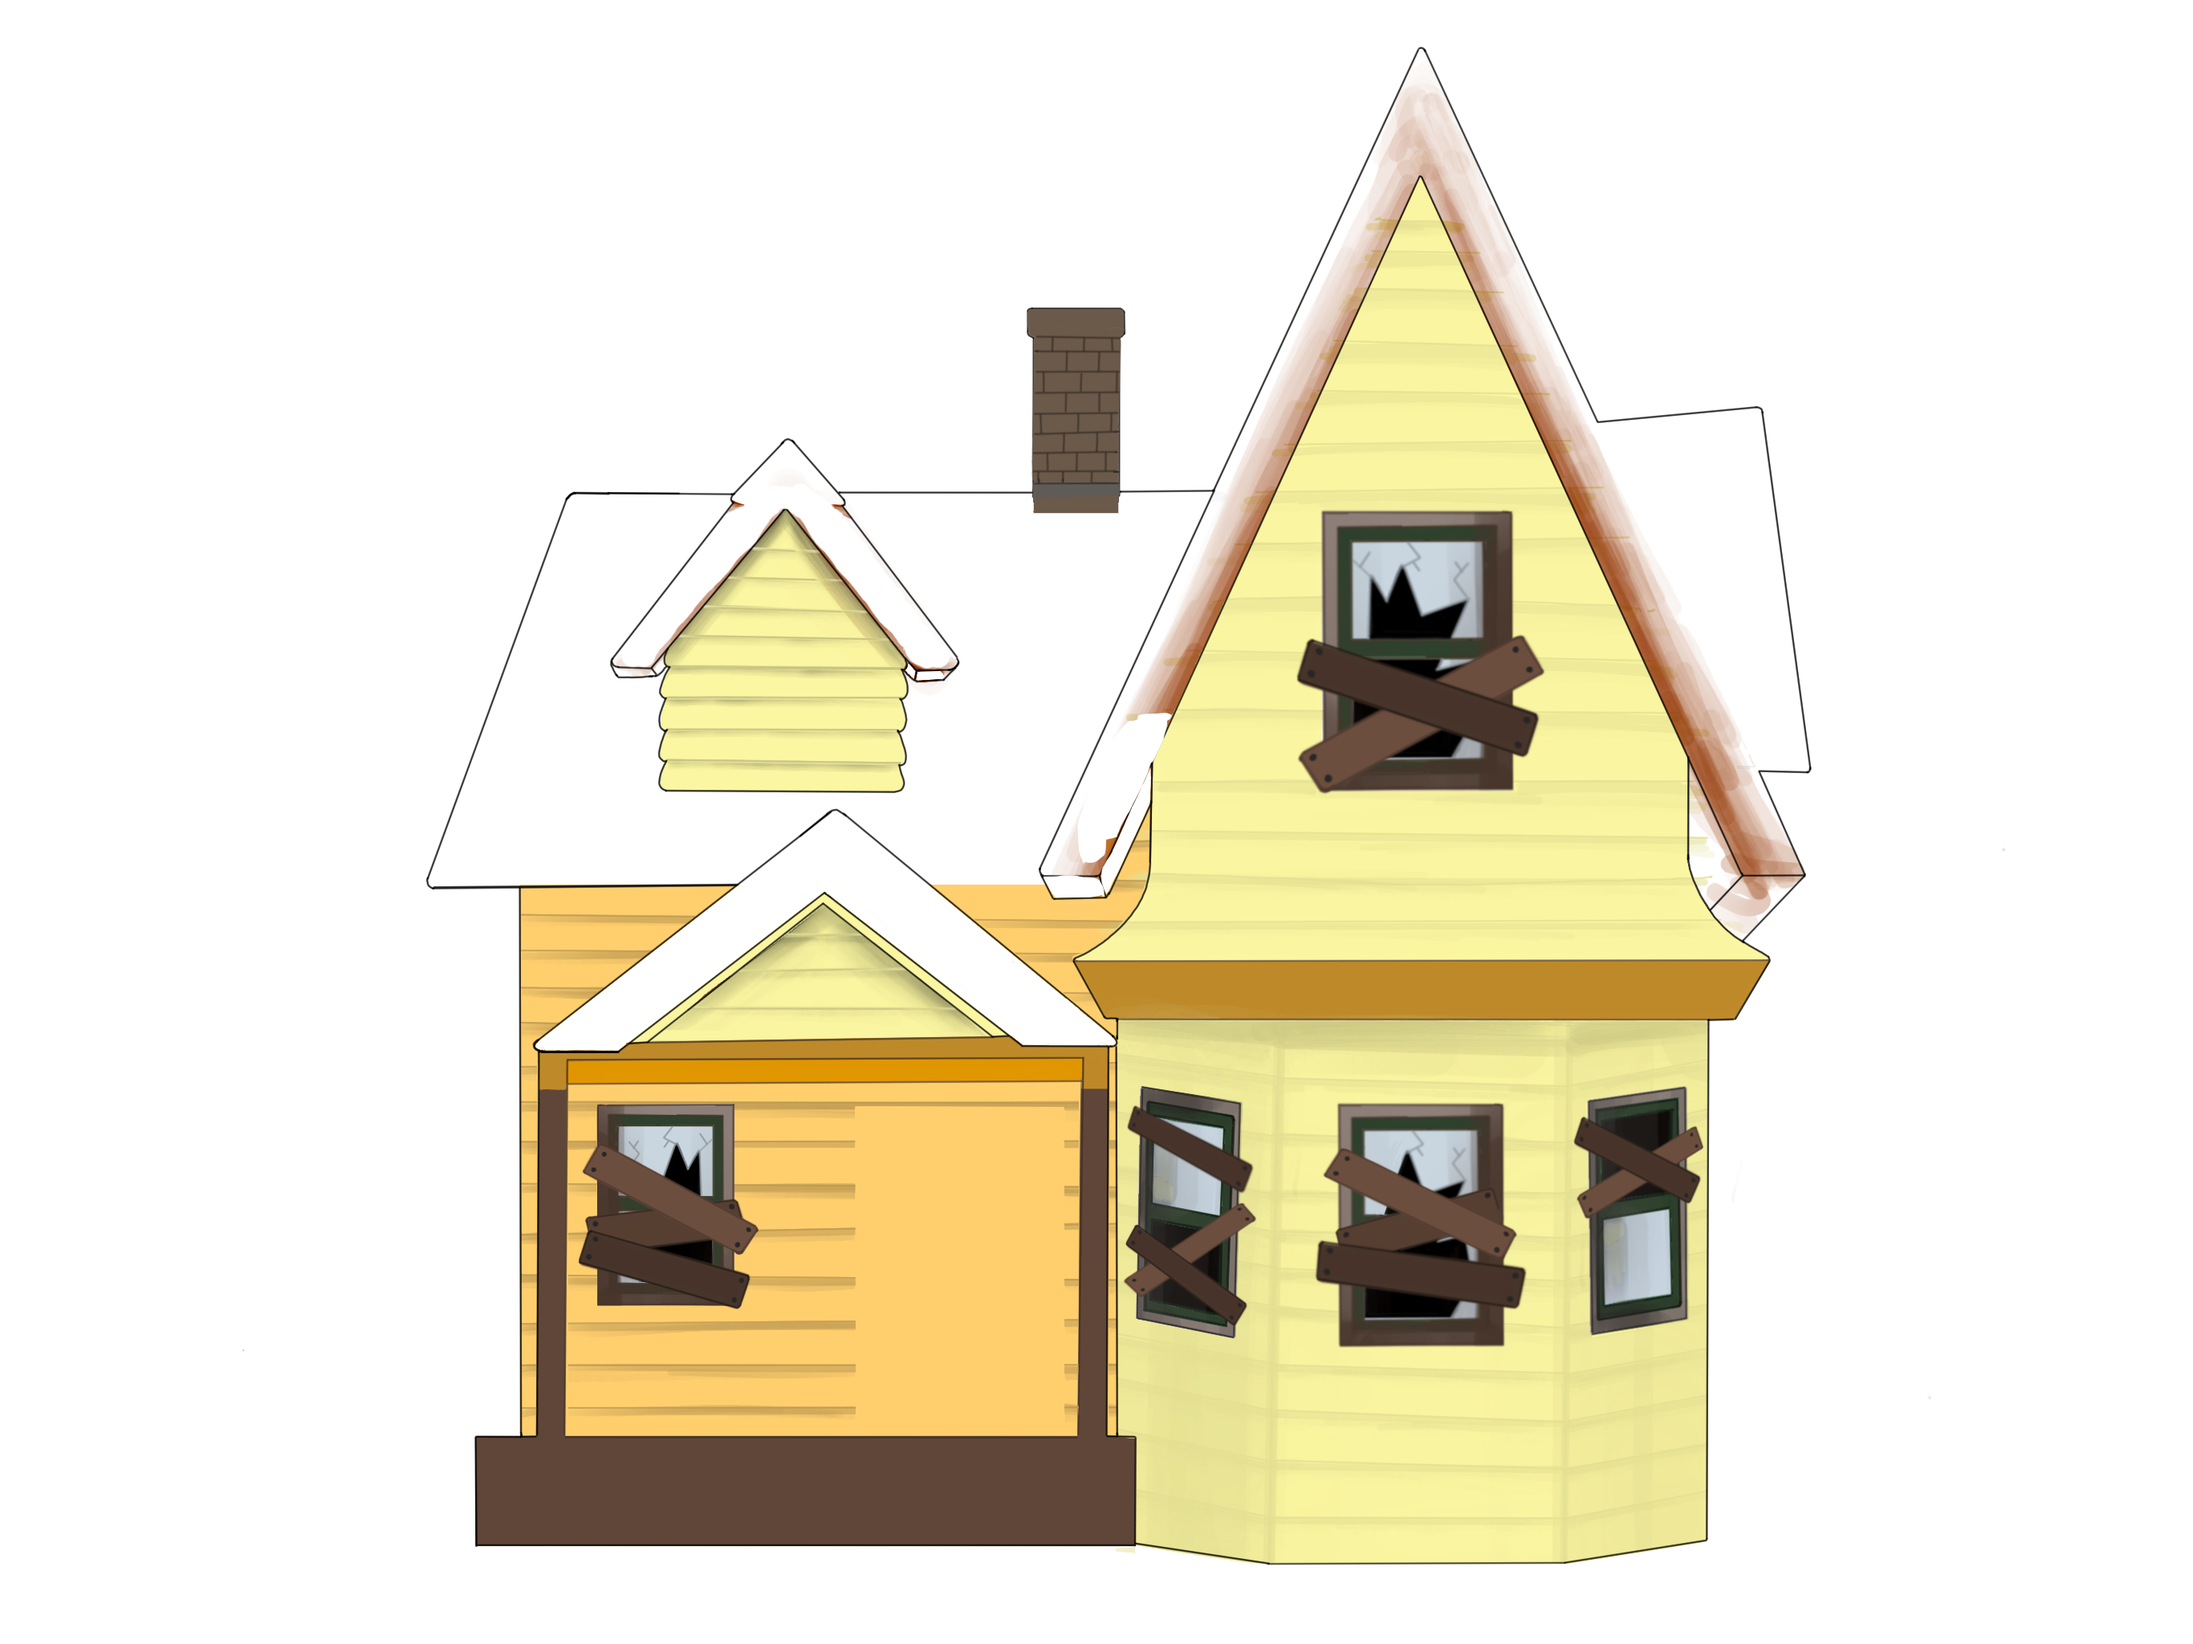
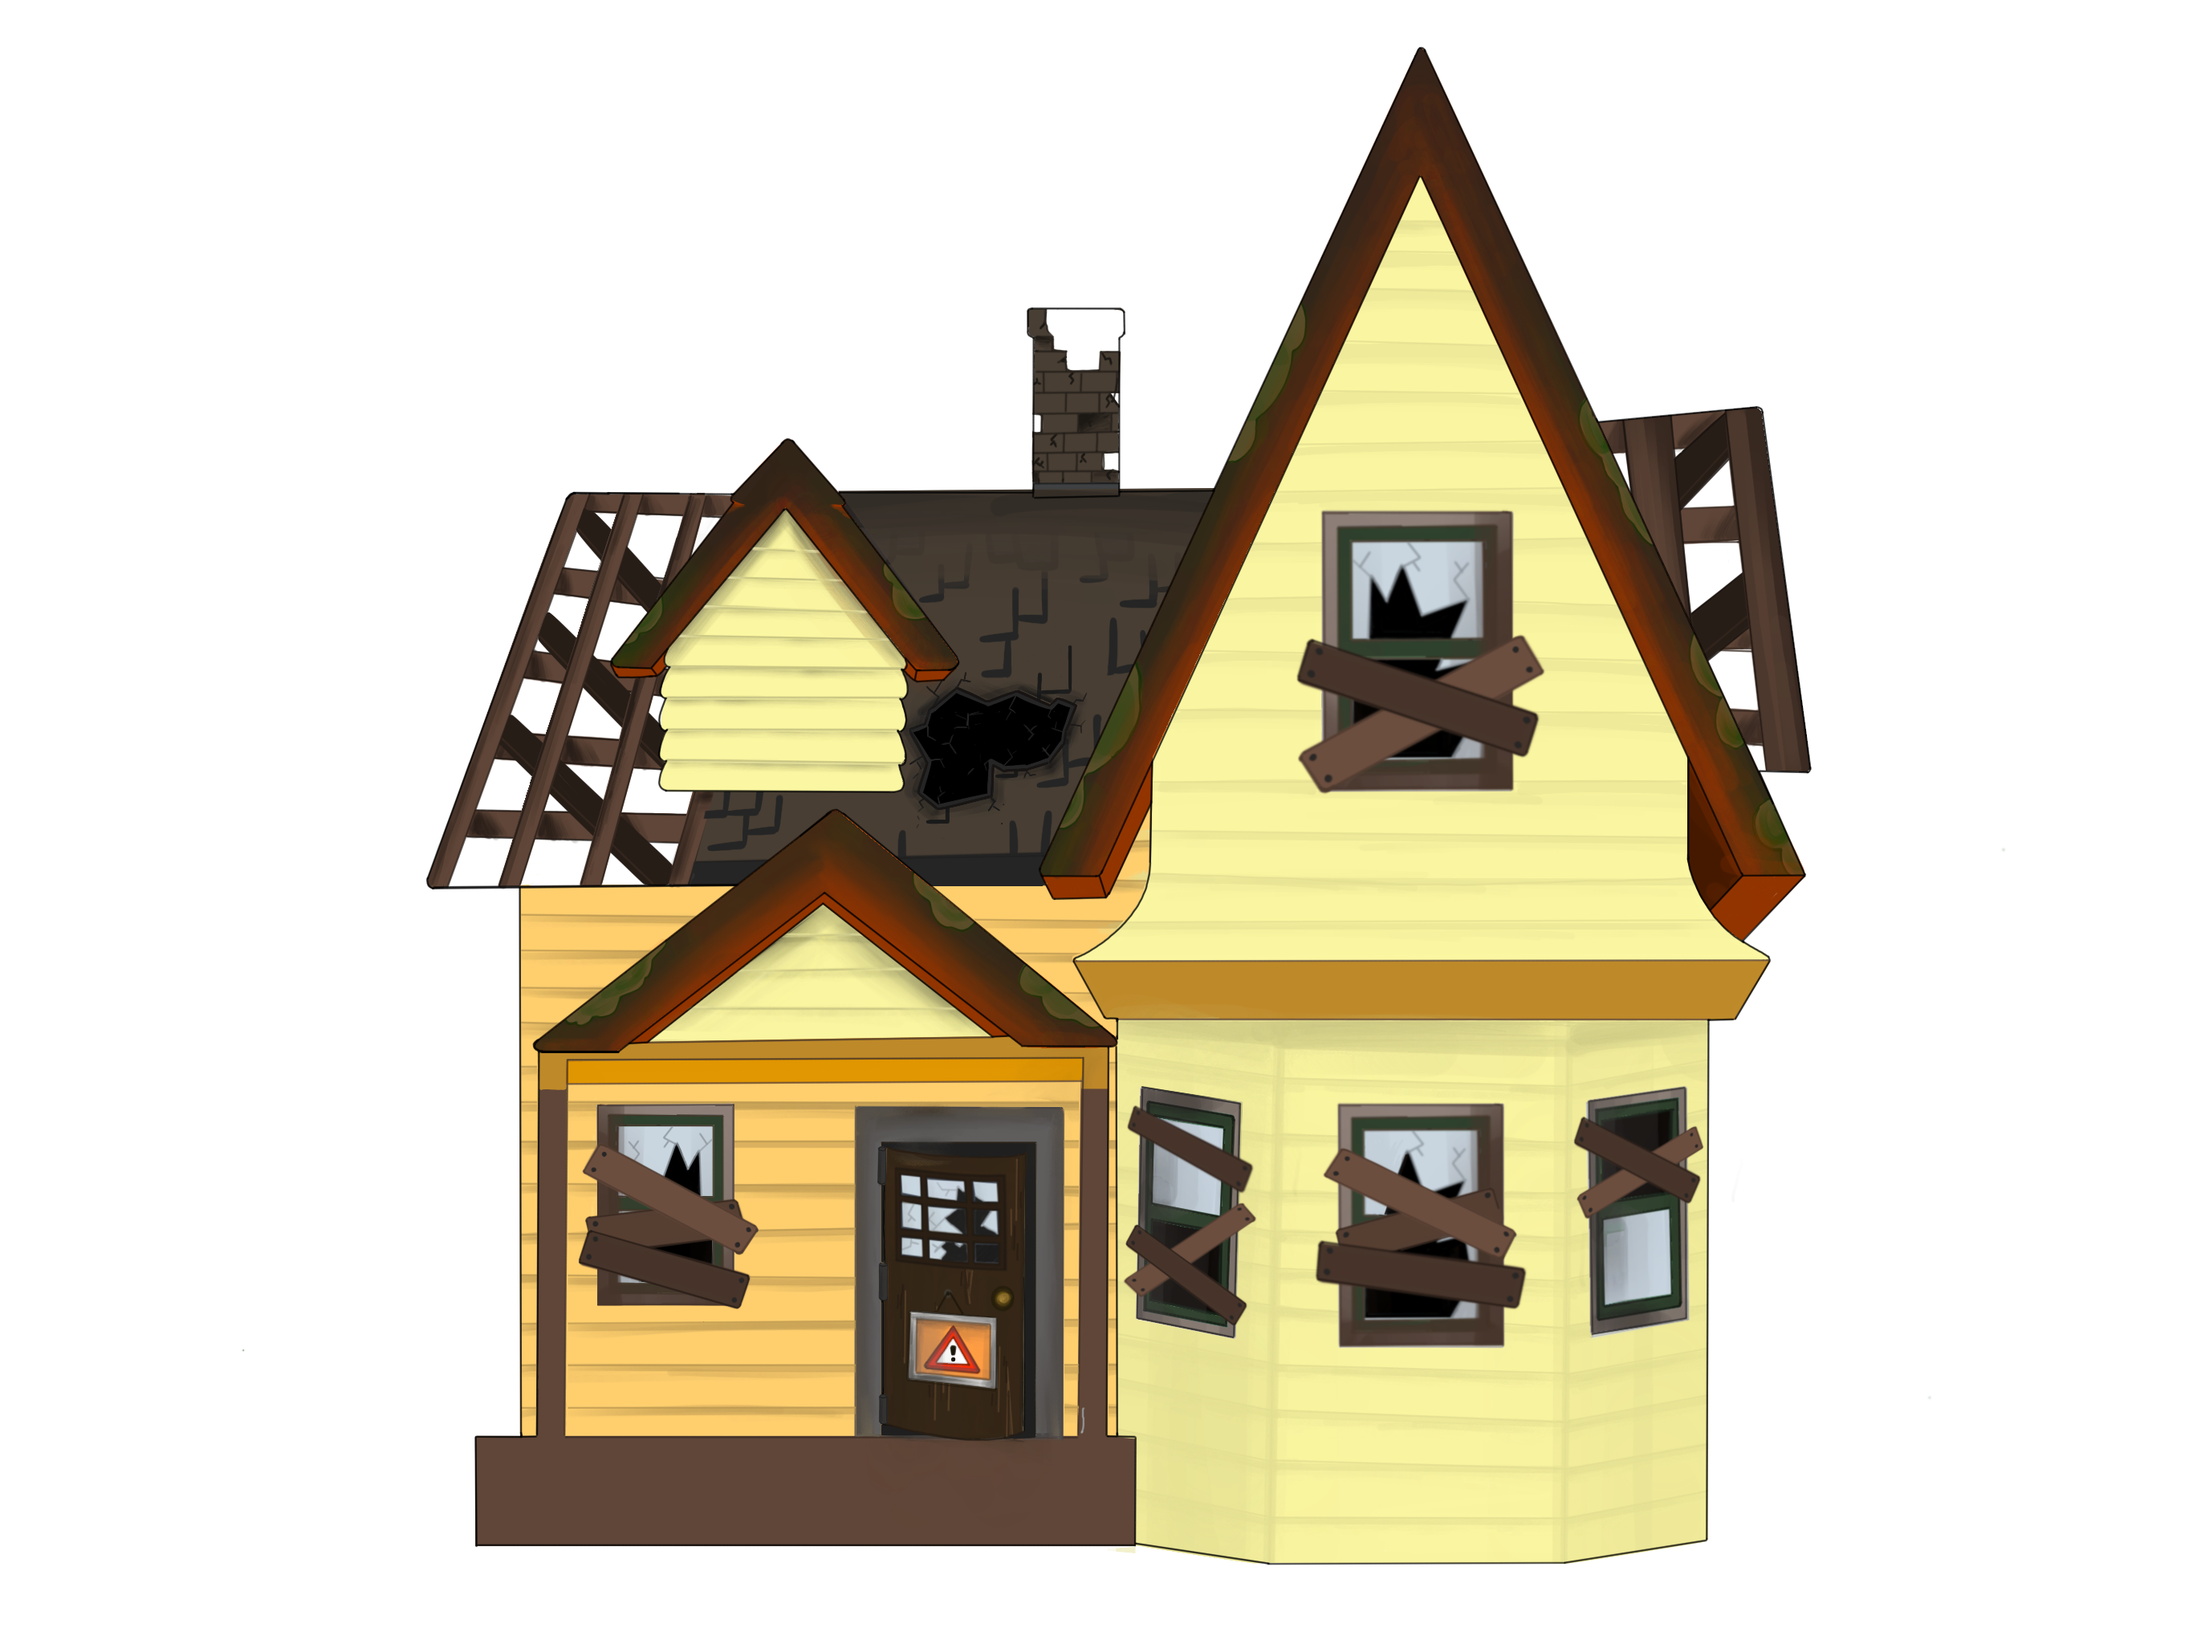
Update images but there's more

Changed region(s): [[0.1867, 0.0312, 0.84, 0.875]]

diff --git a/frontend/src/app/game_logic/host/game-host/states/WaitingForInput.ts b/frontend/src/app/game_logic/host/game-host/states/WaitingForInput.ts
@@ -1,6 +1,6 @@
-import { StateType, iAction } from './../state-manager';
+import { StateType, iAction, StateManager } from './../state-manager';
 import { State } from './State';
-import { Text } from 'pixi.js';
+import { Text, Container } from 'pixi.js';
 import { Constants } from 'src/app/Constants';
 
 export class WaitingForInputs extends State
@@ -8,6 +8,7 @@ export class WaitingForInputs extends State
     private actions: iAction[] = [];
     private _startTime: number;
     private _text: Text;
+    private debugText: Text;
     private _date: Date;
     private _doRequest: boolean = false;
 
@@ -16,16 +17,27 @@ export class WaitingForInputs extends State
         super();
     }
 
+    public init(stateManager: StateManager, viewport: Container): void
+    {
+        super.init(stateManager, viewport);
+        this.debugText = new Text('waiting for player data...', Constants.debugStyle);
+        this.debugText.anchor.set(0.5, 0);
+        this.debugText.x = window.innerWidth / 2;
+        this.debugText.y = 50;
+        this._viewport.addChild(this.debugText);
+    }
+
     public stateStarted(): void
     {
         this._date = new Date();
-        this._startTime = 1;
+        this._startTime = 10;
 
         this._text = new Text('10.000', Constants.style);
         this._text.anchor.set(0.5, 0.5);
         this._text.x = window.innerWidth / 2;
         this._text.y = window.innerHeight / 2;
         this._viewport.addChild(this._text);
+
         this._doRequest = true;
     }
 
@@ -38,6 +50,7 @@ export class WaitingForInputs extends State
     {
         //clear actions.
         this.actions.splice(0);
+        let debugPlayerData: string = '';
         players.forEach(e =>
         {
             //get last played action
@@ -49,6 +62,8 @@ export class WaitingForInputs extends State
                 this.actions.push(playedCard);
                 let n: number = this.actions.length;
             
+                debugPlayerData += 'player: ' + playerInfo.id + ' played ' + playedCard.description + ' discarded ' + playerInfo.lastDiscardCards.pop().description + '\n'; 
+
                 while (n > 1 && this.actions[n - 1].priority > this.actions[n - 2].priority)
                 {
                     const temp: iAction = JSON.parse(JSON.stringify(this.actions[n]));
@@ -58,6 +73,9 @@ export class WaitingForInputs extends State
             }
         });
         this._stateManager.playerActions = this.actions;
+
+        this.debugText.text = debugPlayerData;
+        
         this._stateManager.gotoState(StateType.ResolveTurns);
     }
 
@@ -77,7 +95,7 @@ export class WaitingForInputs extends State
                 let players = [];
                 for (let i = 0; i < 4; i++)
                 {
-                    this._stateManager.doGetRequest('https://ggj2020.azurewebsites.net/api/game/player/' + i).subscribe((playerData) =>
+                    this._stateManager.doGetRequest(Constants.baseUrl + 'player/' + i).subscribe((playerData) =>
                     {
                         players.push(playerData);
                         if (players.length === 4)

diff --git a/frontend/src/app/game_logic/host/game-host/player-house.ts b/frontend/src/app/game_logic/host/game-host/player-house.ts
@@ -19,11 +19,11 @@ export class PlayerHouse extends Sprite
         this.playerActions = new Map<string, PlayerAction[]>();        
         
         this.playerActions.set("Window", [
-            new PlayerAction(new Sprite(textures.get('assets/house/fixed/Windows.png')), new Sprite(textures.get('assets/house/fixed/Windows.png'))),
-            new PlayerAction(new Sprite(textures.get('assets/house/fixed/Windows.png')), new Sprite(textures.get('assets/house/fixed/Windows.png')))]);
+            new PlayerAction(this, new Sprite(textures.get('assets/house/fixed/Windows1.png')), new Sprite(textures.get('assets/house/shield/Windows1.png'))),
+            new PlayerAction(this, new Sprite(textures.get('assets/house/fixed/Windows2.png')), new Sprite(textures.get('assets/house/shield/Windows2.png')))]);
         
-        this.playerActions.set("Door", [new PlayerAction(new Sprite(textures.get('assets/house/fixed/Door.png')), new Sprite(textures.get('assets/house/fixed/Door.png')))]);
-        this.playerActions.set("Roof", [new PlayerAction(new Sprite(textures.get('assets/house/fixed/Roof.png')), new Sprite(textures.get('assets/house/fixed/Roof.png')))]);
+        this.playerActions.set("Door", [new PlayerAction(this, new Sprite(textures.get('assets/house/fixed/Door.png')), new Sprite(textures.get('assets/house/shield/Door.png')))]);
+        this.playerActions.set("Roof", [new PlayerAction(this, new Sprite(textures.get('assets/house/fixed/Roof.png')), new Sprite(textures.get('assets/house/shield/Roof.png')))]);
     }
 
     public hasPlayerAction(action: iAction): boolean

diff --git a/frontend/src/app/game_logic/host/game-host/states/WaitingForPlayers.ts b/frontend/src/app/game_logic/host/game-host/states/WaitingForPlayers.ts
@@ -27,16 +27,19 @@ export class WaitingForPlayers extends State
 
     private generateWorld(): void
     {
-        this._stateManager.doGetRequest(Constants.baseUrl + 'generate').subscribe((data) =>
+        this._stateManager.doDeleteRequest(Constants.baseUrl).subscribe((data) =>
         {
-            this._text.text = 'Waiting for players...';
-            this._poller = setInterval(() => this.pollForPlayers(), 200);          
-        }, () => 
-        {
-            //oops, there was already a game active.
-            this._text.text = 'Waiting for players...';
-            this._poller = setInterval(() => this.pollForPlayers(), 200);
-        });
+            this._stateManager.doGetRequest(Constants.baseUrl + 'generate').subscribe((data) =>
+            {
+                this._text.text = 'Waiting for players...';
+                this._poller = setInterval(() => this.pollForPlayers(), 200);          
+            }, () => 
+            {
+                //oops, there was already a game active.
+                this._text.text = 'Waiting for players...';
+                this._poller = setInterval(() => this.pollForPlayers(), 200);
+            });
+        });        
     }
 
     private pollForPlayers(): void

diff --git a/frontend/src/app/Constants.ts b/frontend/src/app/Constants.ts
@@ -23,6 +23,22 @@ export class Constants
         return style;
     }
 
+    static get debugStyle(): TextStyle
+    {
+        const style = new TextStyle({
+            fontFamily: 'Arial',
+            fontSize: 16,
+            fontWeight: 'bold',
+            fill: '#ffffff', // gradient
+            stroke: '#444',
+            align : 'center',
+            strokeThickness: 1,
+            wordWrap: true,
+            wordWrapWidth: 440,
+        });
+        return style;
+    }
+
     static get baseUrl(): string
     {
         return 'https://ggj2020.azurewebsites.net/api/game/';

diff --git a/frontend/src/app/game_logic/host/game-host/state-manager.ts b/frontend/src/app/game_logic/host/game-host/state-manager.ts
@@ -84,6 +84,15 @@ export class StateManager
         this.currentState.stateStarted();
     }
 
+    public doDeleteRequest(url: string): Observable<any>
+    {
+        const headers: HttpHeaders = new HttpHeaders();
+        headers.append('Access-Control-Allow-Origin', '*');
+        headers.append('Cache-Control', 'no-cache');
+        headers.append('Content-Type', 'application/json');
+        return this.httpRequest.delete(url, {headers: headers});
+    }
+
     public doGetRequest(url: string): Observable<any>
     {
         const headers: HttpHeaders = new HttpHeaders();

diff --git a/frontend/src/app/game_logic/host/game-host/playerAction.ts b/frontend/src/app/game_logic/host/game-host/playerAction.ts
@@ -2,16 +2,14 @@ import { Sprite, Container } from 'pixi.js';
 
 export class PlayerAction
 {
-    private container: Container;
     private fixed: boolean;
     private shielded: boolean;
 
-    private fixedSprite: Sprite;
-    private shieldSprite: Sprite;
 
-    constructor(fixedSprite: Sprite, shieldSprite: Sprite)
+    constructor(private container: Sprite, private fixedSprite: Sprite, private shieldSprite: Sprite)
     {
-        
+        this.fixedSprite.anchor.set(0.5, 0.5);
+        this.shieldSprite.anchor.set(0.5, 0.5);
     }
 
     public hasActionBuild(): boolean

diff --git a/frontend/src/app/game_logic/host/game-host/states/ResolveTurns.ts b/frontend/src/app/game_logic/host/game-host/states/ResolveTurns.ts
@@ -28,7 +28,7 @@ export class ResolveTurns extends State
         {
             console.log('end state resolve turns.');
             //start new turn.
-            //this._stateManager.gotoState(StateType.WaitingForInput);
+            this._stateManager.gotoState(StateType.WaitingForInput);
         }
     }
 

diff --git a/frontend/src/app/game_logic/host/game-host/states/GameIntroState.ts b/frontend/src/app/game_logic/host/game-host/states/GameIntroState.ts
@@ -12,7 +12,7 @@ export class StartGameState extends State
     public stateStarted(): void
     {
         this._date = new Date();
-        this._startTime = 1;
+        this._startTime = 10;
 
         this._text = new Text('10.000', Constants.style);
         this._text.anchor.set(0.5, 0.5);

diff --git a/frontend/src/app/game_logic/card.ts b/frontend/src/app/game_logic/card.ts
@@ -61,7 +61,7 @@ export class Card extends Sprite
             case 2:  // Defend / Shield
             case 5:  // Defend / Shield
             case 8:  // Defend / Shield
-            return ActionType.Build;
+            return ActionType.Defend;
         }
     }
 
